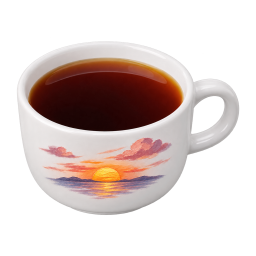
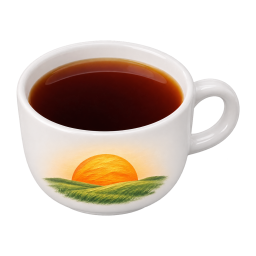
Fix YouTube title updates and quality controls
[draft]

diff --git a/tests/test_window.py b/tests/test_window.py
@@ -20,7 +20,11 @@ sys.path.insert(0, str(ROOT / "third_party" / "syncplay"))
 from PySide6.QtCore import QEvent, QObject, QPoint, QPointF, QTimer, Qt, Signal
 from PySide6.QtGui import QColor, QFont, QFontMetrics, QImage, QKeyEvent, QMouseEvent, QPainter, QPalette, QWheelEvent
 from PySide6.QtTest import QTest
-from PySide6.QtWidgets import QApplication, QDialog, QFormLayout, QLabel, QLineEdit, QPushButton, QScrollArea, QWidget
+from PySide6.QtNetwork import QNetworkReply
+from PySide6.QtWidgets import (
+    QApplication, QDialog, QFormLayout, QLabel, QLineEdit, QPushButton,
+    QScrollArea, QScrollBar, QStyle, QStyleOptionSlider, QWidget,
+)
 
 from syncplay.messages import getMessage
 from yucha.app import App
@@ -29,7 +33,7 @@ from yucha.player_ui import PlayerUI
 from yucha.configstore import DEFAULTS, ConfigStore
 from yucha import __version__, i18n
 from yucha.i18n import system_language
-from yucha.window import MainWindow, SettingsDialog, _palette
+from yucha.window import EdgeScroll, MainWindow, SettingsDialog, _palette
 
 
 class PictureStub(QWidget):
@@ -222,6 +226,9 @@ class WindowTests(unittest.TestCase):
                          [("set_property", "vid", 2)])
         self.assertEqual(window.ctl.properties["time-pos"], 24)
         self.assertTrue(window.ctl.properties["pause"])
+        self.assertFalse(window._quality_open)
+        self.assertTrue(window.quality_pop.isHidden())
+        self.assertFalse(window.quality_btn.isChecked())
         window.tracks_btn.click()
         self.assertTrue(window._tracks_open)
         self.assertFalse(window._quality_open)
@@ -246,7 +253,7 @@ class WindowTests(unittest.TestCase):
         window.quality_btn.set_quality(1080)
         font = QFont(window.quality_btn.font())
         font.setPixelSize(18)
-        font.setBold(True)
+        font.setBold(False)
         self.assertGreaterEqual(window.quality_btn.width(), QFontMetrics(font).horizontalAdvance("1080p") + 12)
         self.assertIn(("set_property", "aid", 2), window.ctl.calls)
         with patch("yucha.youtube.QLocale.system", return_value=QLocale("ru_RU")):
@@ -256,6 +263,33 @@ class WindowTests(unittest.TestCase):
         self.assertEqual(len(buttons), 5)
         buttons[-1].click()
         self.assertEqual(window.ctl.properties["aid"], 3)
+
+    def test_youtube_title_reaches_users_before_play_and_when_switching(self):
+        window = self.window
+        url = "https://www.youtube.com/watch?v=jNQXAC9IVRw"
+        window._playlist = []
+        window._users = [{"name": "me", "file": url, "ready": True}]
+        self.app.client.set_youtube_info = Mock()
+        reply = Mock()
+        reply.error.return_value = QNetworkReply.NetworkError.NoError
+        reply.read.return_value = b'{"title":"Title before play"}'
+        with patch.object(window, "_fetch_youtube_title"), patch(
+                "twisted.internet.reactor.callFromThread", side_effect=lambda fn, *args: fn(*args)):
+            window._add_dropped([url])
+            window.ctl.properties.update({"path": url, "media-title": "jNQXAC9IVRw", "pause": True})
+            window._youtube_title_received(url, reply)
+            window._refresh_transport()
+            self.assertEqual(window.room_users.files_col.itemAt(0).widget().text(), "Title before play")
+            self.app.client.set_youtube_info.assert_called_with(url, "Title before play", 0)
+            self.assertTrue(window.ctl.properties["pause"])
+            next_url = "https://www.youtube.com/watch?v=2iAkQCsSctc"
+            window._playlist.append({"path": next_url, "name": "Queued title"})
+            window.ctl.properties["media-title"] = "Old engine title"
+            window._play_path(next_url)
+            window._refresh_transport()
+            self.assertEqual(window._stream, (next_url, "Queued title", 0))
+            self.app.client.set_youtube_info.assert_called_with(next_url, "Queued title", 0)
+        reply.deleteLater.assert_called_once_with()
 
     def test_chapter_markers_toggle_and_removed_youtube_does_not_return(self):
         window = self.window
@@ -307,6 +341,29 @@ class WindowTests(unittest.TestCase):
         area.deleteLater()
         self.qt.sendPostedEvents(None, QEvent.Type.DeferredDelete)
         self.assertNotIn(area, manager._areas)
+
+    def test_long_scrollbar_thumb_is_capped_without_changing_page_scroll(self):
+        native = QScrollBar(Qt.Orientation.Vertical, self.window)
+        native.setRange(0, 4000)
+        native.setPageStep(600)
+        bar = EdgeScroll(Qt.Orientation.Vertical, self.window)
+        bar.setGeometry(5, 5, 3, 600)
+        bar.attach(native)
+        bar.show()
+        self.qt.processEvents()
+        for length in (600, 900):
+            bar.resize(3, length)
+            option = QStyleOptionSlider()
+            bar.initStyleOption(option)
+            thumb = bar.style().subControlRect(QStyle.ComplexControl.CC_ScrollBar, option,
+                                               QStyle.SubControl.SC_ScrollBarSlider, bar)
+            self.assertGreaterEqual(thumb.height(), 18)
+            self.assertLessEqual(thumb.height(), 64)
+        bar.triggerAction(bar.SliderAction.SliderPageStepAdd)
+        self.assertEqual(native.value(), 600)
+        self.assertEqual(bar.value(), 600)
+        bar.setValue(bar.maximum())
+        self.assertEqual(native.value(), 4000)
 
     def test_settings_wheel_scrolls_page_without_changing_fields(self):
         dialog = self.dialog()

diff --git a/yucha/window.py b/yucha/window.py
@@ -1289,6 +1289,7 @@ class EdgeScroll(QScrollBar):
         self._until = 0
         self.hide()
         self.sliderMoved.connect(self.bump)
+        self.actionTriggered.connect(self._page_action)
 
     def attach(self, native):
         self._native = native
@@ -1305,12 +1306,25 @@ class EdgeScroll(QScrollBar):
         self.blockSignals(True)
         self.setMinimum(native.minimum())
         self.setMaximum(native.maximum())
-        self.setPageStep(native.pageStep())
+        # Cap the visual thumb; page clicks still use the native viewport size.
+        length = self.height() if self.orientation() == Qt.Orientation.Vertical else self.width()
+        cap = min(64, max(18, length // 4))
+        span = native.maximum() - native.minimum()
+        self.setPageStep(min(native.pageStep(), max(1, span * cap // max(1, length - cap))))
         self.setSingleStep(max(1, native.singleStep()))
         self.setValue(native.value())
         self.blockSignals(False)
         if self.maximum() <= self.minimum():
             self.hide()
+
+    def resizeEvent(self, event):
+        super().resizeEvent(event)
+        self.sync()
+
+    def _page_action(self, action):
+        if action in (self.SliderAction.SliderPageStepAdd.value, self.SliderAction.SliderPageStepSub.value):
+            self._native.triggerAction(self.SliderAction(action))
+            self.setSliderPosition(self._native.value())
 
     def _from_native(self, value):
         if self.value() != value:
@@ -1878,7 +1892,7 @@ class IconButton(QPushButton):
         self._quality = label
         font = QFont(self.font())
         font.setPixelSize(18)
-        font.setBold(True)
+        font.setBold(False)
         width = max(40, QFontMetrics(font).horizontalAdvance(label) + 12)
         self.setStyleSheet("min-width: {0}px; max-width: {0}px;".format(width))
         self.setFixedWidth(width)
@@ -2002,7 +2016,7 @@ class IconButton(QPushButton):
         elif kind == "quality":
             font = painter.font()
             font.setPixelSize(18)
-            font.setBold(True)
+            font.setBold(False)
             painter.setFont(font)
             painter.drawText(self.rect(), Qt.AlignmentFlag.AlignCenter, getattr(self, "_quality", "—"))
         elif kind == "add":
@@ -4365,7 +4379,7 @@ class MainWindow(QMainWindow):
             return
         self._set(kind, track_id)
         if kind == "vid":
-            self._fill_quality()
+            self._close_popups(None)
         else:
             self._fill_tracks()
         self._place_overlays()
@@ -5135,6 +5149,8 @@ class MainWindow(QMainWindow):
             if item["path"] == url and item["name"] != title:
                 item["name"] = title
                 self._refresh_files()
+                if url == video_url(self._current_path):
+                    self._refresh_youtube(url)
                 break
 
     def _add_dropped(self, paths):
@@ -5185,6 +5201,7 @@ class MainWindow(QMainWindow):
             except Exception:
                 pass
         self._refresh_files()
+        self._refresh_youtube(video_url(path))
 
     def _remove_file(self, path):
         if not path:
@@ -5773,7 +5790,11 @@ class MainWindow(QMainWindow):
         self._apply_bar_buttons()
 
     def _refresh_youtube(self, url):
-        if url:
+        pending = video_url(self._arm_play or self._hold_pause)
+        if pending:
+            url = pending
+        loaded = bool(url) and video_url(self._get("path")) == url
+        if loaded:
             tracks = self._read_tracks()
             selected = next((track for track in tracks if track.get("type") == "audio" and track.get("selected")), None)
             if selected:
@@ -5781,14 +5802,17 @@ class MainWindow(QMainWindow):
                     if track_language(best) == track_language(selected) and best.get("id") != selected.get("id"):
                         self._set("aid", best["id"])
         height = 0
-        if url:
+        if loaded:
             height = next((resolution(track.get("demux-h")) for track in tracks
                            if track.get("type") == "video" and track.get("selected")), 0)
             height = height or resolution(self._get("video-params/h"))
         self.quality_btn.set_quality(height)
-        title = stream_title(self._get("media-title")) if url else ""
-        if video_url(title):
-            title = ""
+        title = next((item["name"] for item in self._playlist
+                      if url and item["path"] == url and not video_url(item["name"])), "")
+        if not title and loaded:
+            title = stream_title(self._get("media-title"))
+            if video_url(title) or title in (url.rsplit("=", 1)[-1], url.rsplit("/", 1)[-1]):
+                title = ""
         old_url, old_title, old_height = self._stream
         if url and url == old_url:
             title = title or old_title
